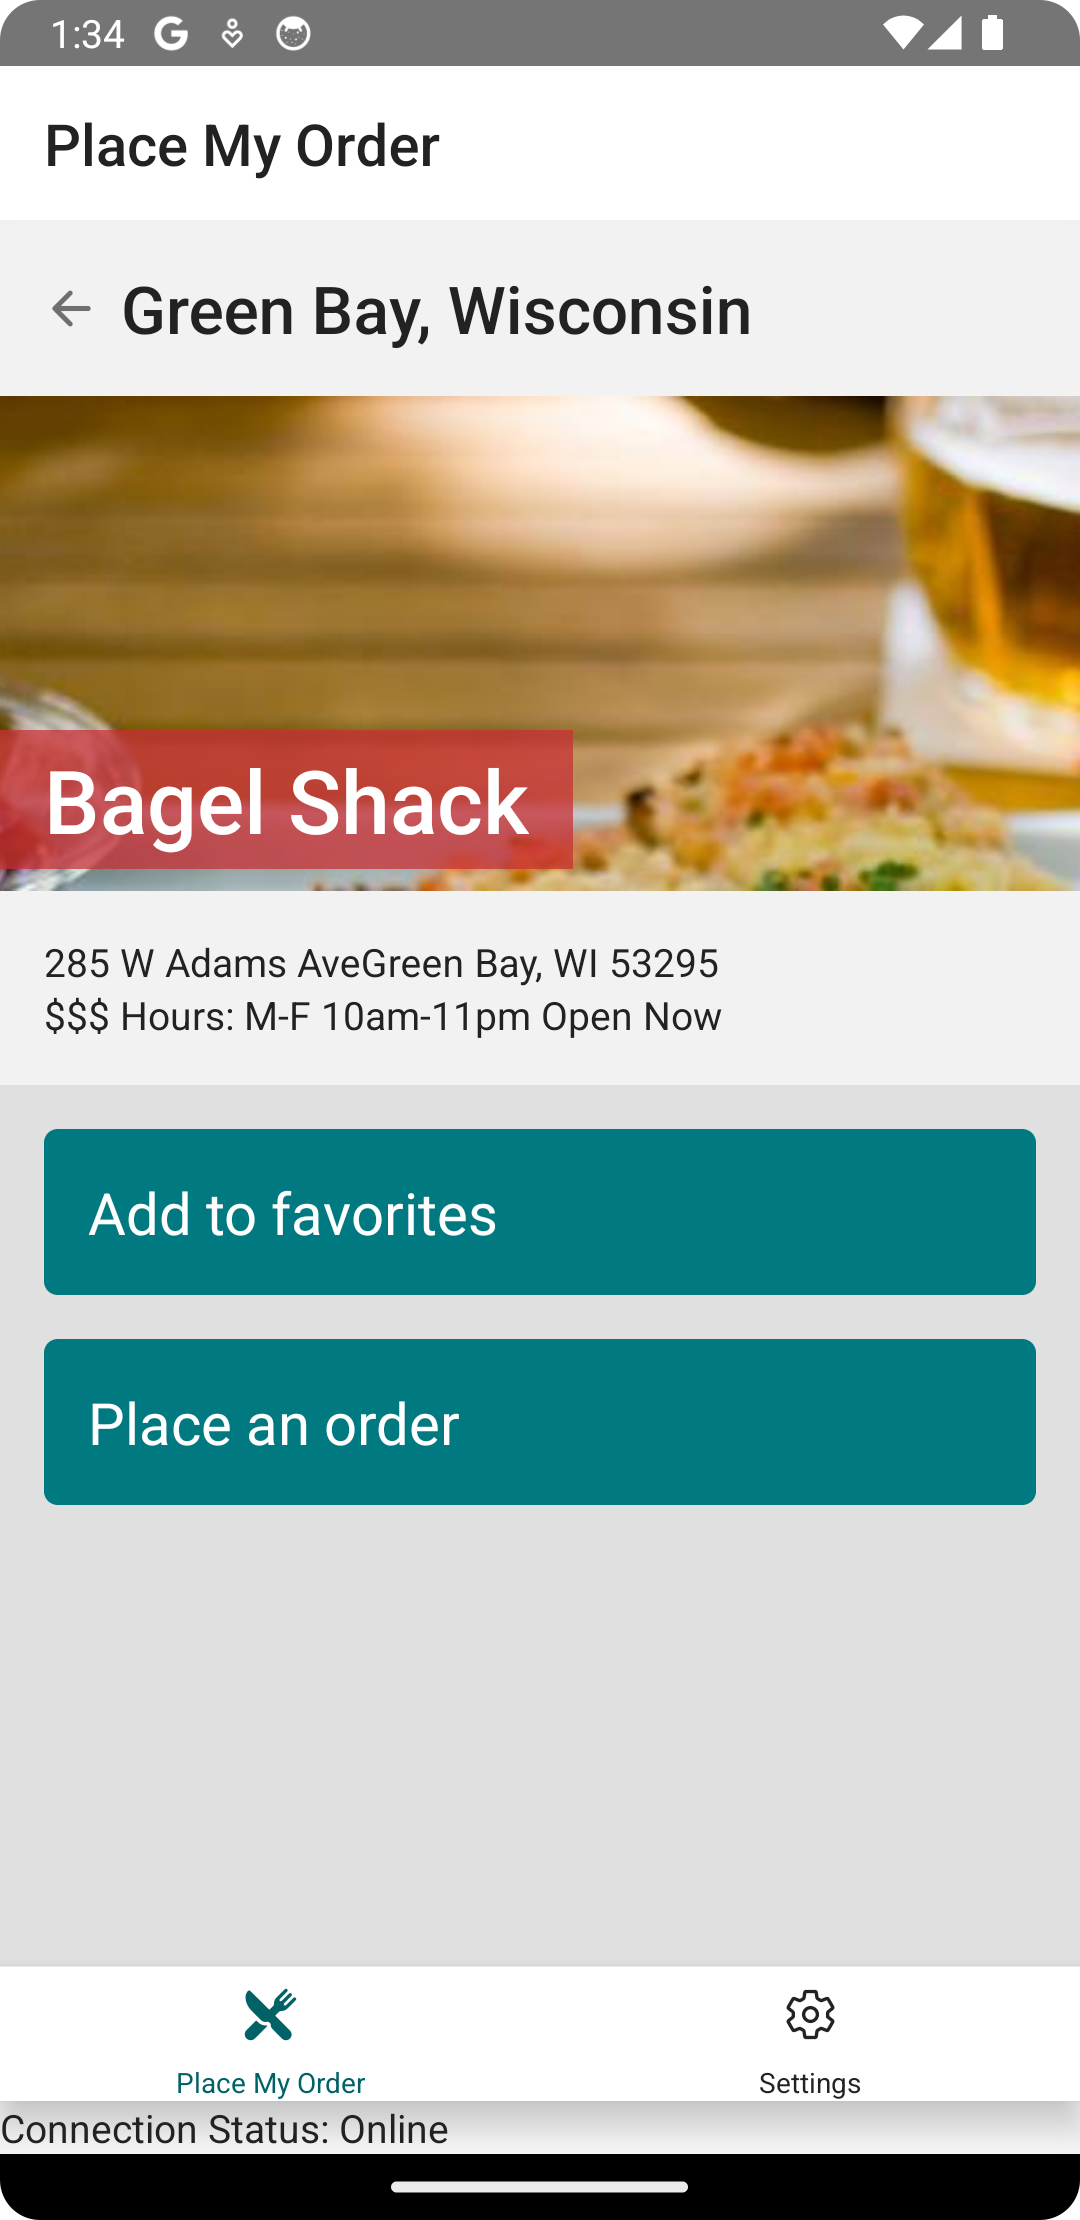
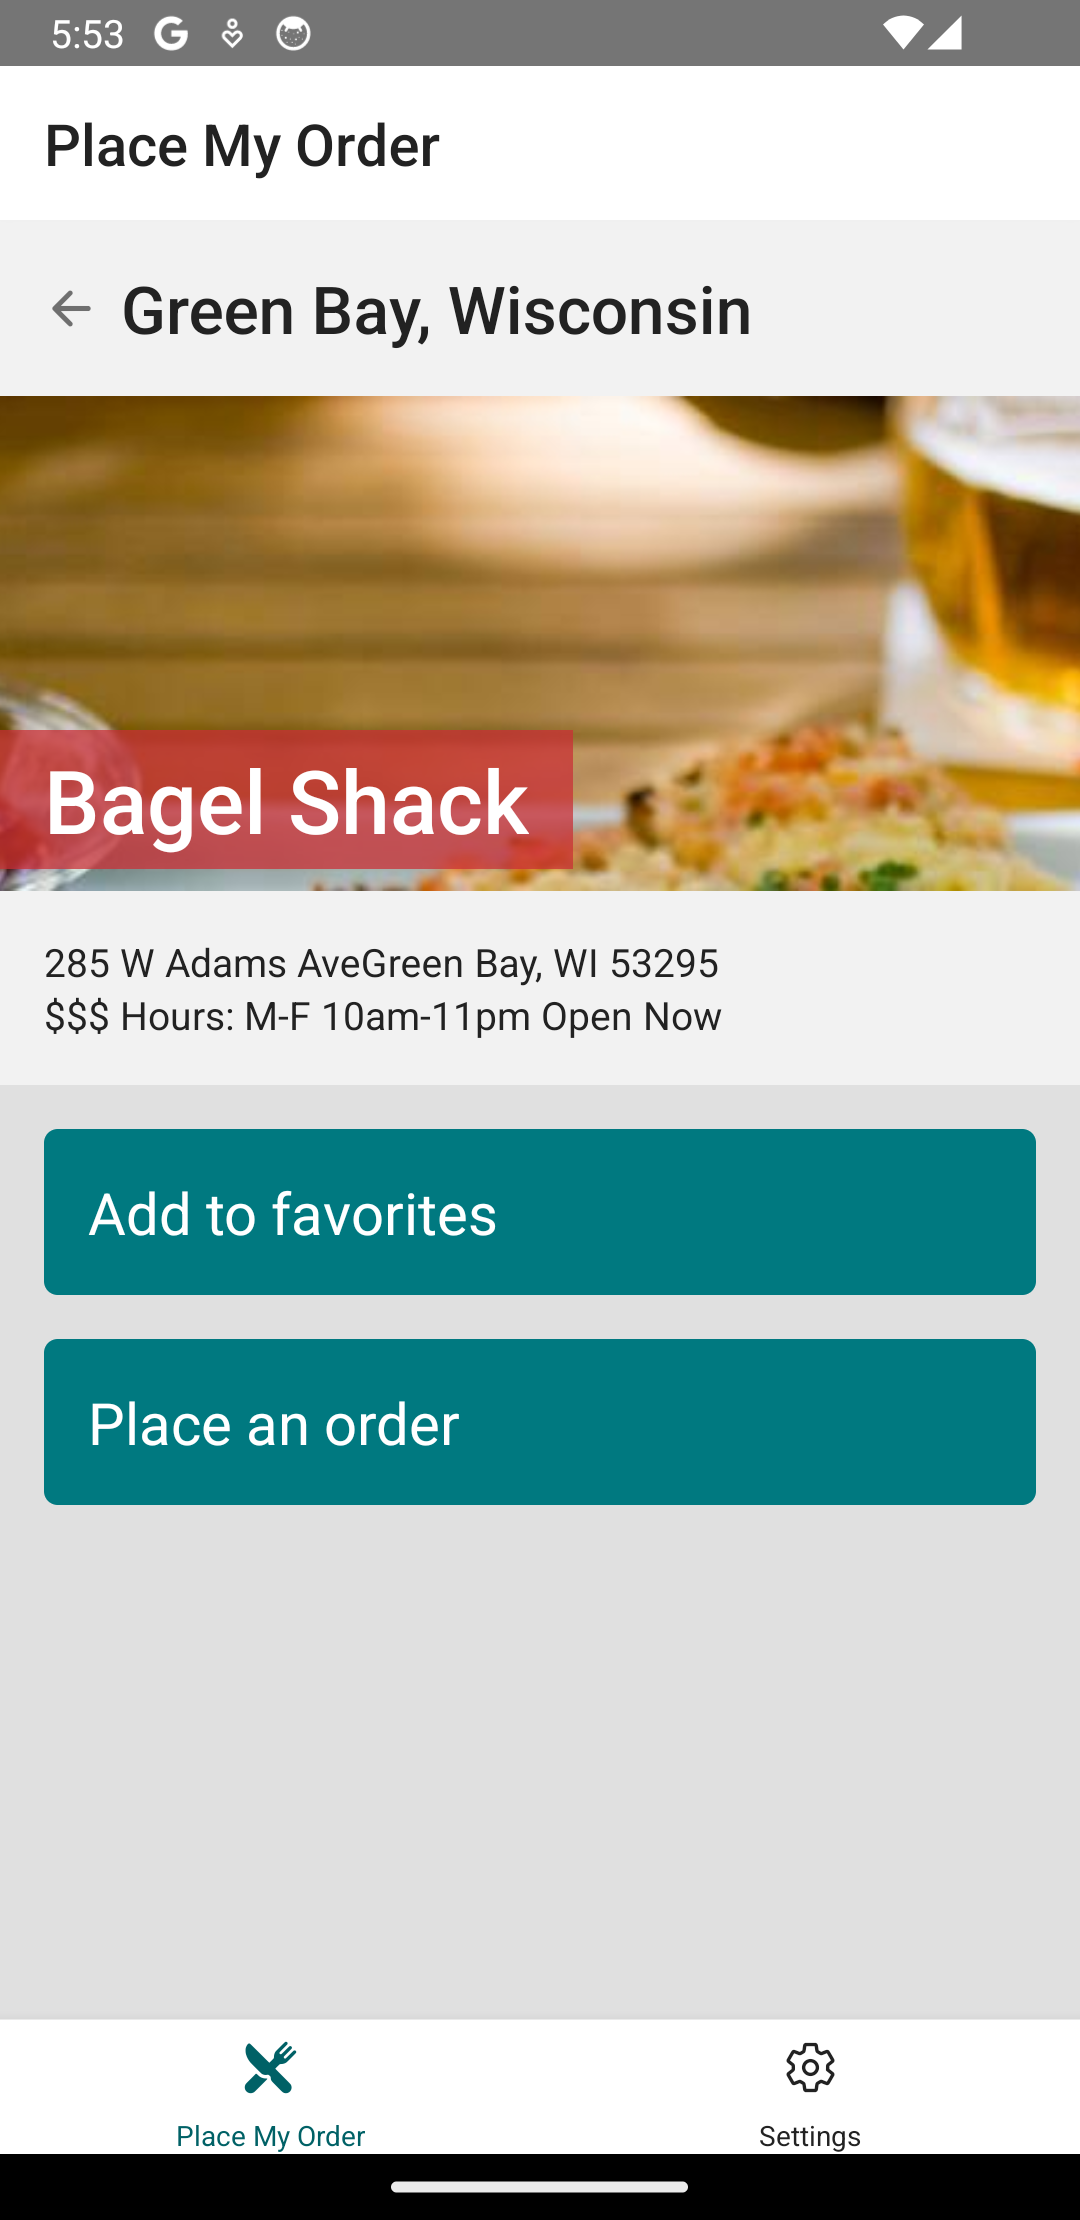
removing connection status at the bottom, sentence case button

diff --git a/exercise-src/react-native/17-offline-support/01-solution/src/screens/Settings/Settings.tsx b/exercise-src/react-native/17-offline-support/01-solution/src/screens/Settings/Settings.tsx
@@ -1,3 +1,4 @@
+import { useNetInfo } from "@react-native-community/netinfo"
 import { GoogleSigninButton } from "@react-native-google-signin/google-signin"
 import { Switch } from "react-native"
 
@@ -7,12 +8,12 @@ import Screen from "../../design/Screen"
 import { useThemeMode } from "../../design/theme"
 import Typography from "../../design/Typography"
 import { useAuthentication, useUser } from "../../services/auth"
-import FavoritesSync from "../../services/pmo/favorite"
 
 const Settings: React.FC = () => {
   const { signIn, signOut } = useAuthentication()
   const user = useUser()
   const { mode, setMode } = useThemeMode()
+  const { isConnected } = useNetInfo()
 
   return (
     <Screen>
@@ -34,7 +35,9 @@ const Settings: React.FC = () => {
         />
       </Card>
       <Card>
-        <FavoritesSync />
+        <Typography>
+          Connection Status: {isConnected ? "Online" : "Offline"}
+        </Typography>
       </Card>
     </Screen>
   )

diff --git a/exercise-src/react-native/17-offline-support/03-solution/src/services/pmo/favorite/favorite.tsx b/exercise-src/react-native/17-offline-support/03-solution/src/services/pmo/favorite/favorite.tsx
@@ -1,12 +1,11 @@
 import { useNetInfo } from "@react-native-community/netinfo"
 import { useEffect } from "react"
 
-import Typography from "../../../design/Typography"
 import { useUser } from "../../auth"
 
 import { useFavorites } from "./hooks"
 
-const useFavoritesSync = (): boolean => {
+const useFavoritesSync = (): void => {
   const user = useUser()
   const { isConnected } = useNetInfo()
   const { syncWithServer, localFavorites } = useFavorites(user?.id)
@@ -17,17 +16,13 @@ const useFavoritesSync = (): boolean => {
     }
   }, [isConnected, localFavorites, syncWithServer, user])
 
-  return isConnected
+  return
 }
 
 const FavoritesSync: React.FC = () => {
-  const isConnected = useFavoritesSync()
+  useFavoritesSync()
 
-  return (
-    <Typography>
-      Connection Status: {isConnected ? "Online" : "Offline"}
-    </Typography>
-  )
+  return null
 }
 
 export default FavoritesSync

diff --git a/exercise-src/react-native/17-offline-support/03-problem/src/services/pmo/favorite/favorite.tsx b/exercise-src/react-native/17-offline-support/03-problem/src/services/pmo/favorite/favorite.tsx
@@ -1,25 +1,18 @@
 import { useNetInfo } from "@react-native-community/netinfo"
 import { useEffect } from "react"
 
-import Typography from "../../../design/Typography"
 import { useUser } from "../../auth"
 
 import { useFavorites } from "./hooks"
 
-const useFavoritesSync = (): boolean => {
-  const { isConnected } = useNetInfo()
-
-  return isConnected
+export const useFavoritesSync = (): void => {
+  return
 }
 
 const FavoritesSync: React.FC = () => {
-  const isConnected = useFavoritesSync()
+  useFavoritesSync()
 
-  return (
-    <Typography>
-      Connection Status: {isConnected ? "Online" : "Offline"}
-    </Typography>
-  )
+  return null
 }
 
 export default FavoritesSync

diff --git a/exercise-src/react-native/17-offline-support/02-solution/src/screens/RestaurantDetails/RestaurantDetails.tsx b/exercise-src/react-native/17-offline-support/02-solution/src/screens/RestaurantDetails/RestaurantDetails.tsx
@@ -61,7 +61,7 @@ const RestaurantDetails: React.FC<RestaurantDetailsProps> = ({ route }) => {
         }}
       >
         {isAuthenticated && favorite?.favorite
-          ? "Remove from Favorites"
+          ? "Remove from favorites"
           : "Add to favorites"}
       </Button>
 

diff --git a/exercise-src/react-native/17-offline-support/03-solution/src/App.tsx b/exercise-src/react-native/17-offline-support/03-solution/src/App.tsx
@@ -160,6 +160,7 @@ const App: React.FC = () => {
             <NavigationContainer>
               <AppNavigator />
             </NavigationContainer>
+            <FavoritesSync />
           </DataMigration>
         </AuthProvider>
       </ThemeProvider>

diff --git a/exercise-src/react-native/17-offline-support/01-problem/src/screens/Settings/Settings.tsx b/exercise-src/react-native/17-offline-support/01-problem/src/screens/Settings/Settings.tsx
@@ -1,3 +1,4 @@
+import { useNetInfo } from "@react-native-community/netinfo"
 import { GoogleSigninButton } from "@react-native-google-signin/google-signin"
 import { Switch } from "react-native"
 

diff --git a/exercise-src/react-native/17-offline-support/02-problem/src/services/pmo/favorite/index.ts b/exercise-src/react-native/17-offline-support/02-problem/src/services/pmo/favorite/index.ts
@@ -1,2 +1,1 @@
-export { default } from "./favorite"
 export * from "./hooks"

diff --git a/exercise-src/react-native/17-offline-support/03-problem/src/services/pmo/favorite/index.ts b/exercise-src/react-native/17-offline-support/03-problem/src/services/pmo/favorite/index.ts
@@ -1,1 +1,2 @@
 export { default } from "./favorite"
+export * from "./hooks"

diff --git a/src/react-native/17-offline-support/offline-support.md b/src/react-native/17-offline-support/offline-support.md
@@ -36,21 +36,13 @@ npm install @react-native-community/netinfo@11
 
 @diff ../../../exercises/react-native/16-security/01-solution/src/screens/Settings/Settings.tsx ../../../exercises/react-native/17-offline-support/01-problem/src/screens/Settings/Settings.tsx only
 
-✏ Create **src/services/pmo/favorite/favorite.tsx** and update it to be:
-
-@sourceref ../../../exercises/react-native/17-offline-support/01-solution/src/services/pmo/favorite/favorite.tsx
-
-✏ Create **src/services/pmo/favorite/index.ts** and update it to be:
-
-@sourceref ../../../exercises/react-native/17-offline-support/01-solution/src/services/pmo/favorite/index.ts
-
 ### Verify 1
 
 TODO
 
 ### Exercise 1
 
-- Use NetInfo to determine connection state
+- Use NetInfo to determine the connection state
 
 - Display message on Settings when offline
 
@@ -64,10 +56,6 @@ If you’ve implemented the solution correctly, the tests will pass when you run
 ✏ Update **src/screens/Settings/Settings.tsx** to be:
 
 @diff ../../../exercises/react-native/17-offline-support/01-problem/src/screens/Settings/Settings.tsx ../../../exercises/react-native/17-offline-support/01-solution/src/screens/Settings/Settings.tsx only
-
-✏ Update **src/services/pmo/favorite/favorite.tsx** to be:
-
-@diff ../../../exercises/react-native/17-offline-support/01-problem/src/services/pmo/favorite/favorite.tsx ../../../exercises/react-native/17-offline-support/01-solution/src/services/pmo/favorite/favorite.tsx only
 
 </details>
 
@@ -84,10 +72,6 @@ TODO
 
 ### Setup 2
 
-✏ Update **src/screens/RestaurantDetails/RestaurantDetails.tsx** to be:
-
-@diff ../../../exercises/react-native/17-offline-support/01-solution/src/screens/RestaurantDetails/RestaurantDetails.tsx ../../../exercises/react-native/17-offline-support/02-problem/src/screens/RestaurantDetails/RestaurantDetails.tsx only
-
 ✏ Create **src/services/pmo/favorite/hooks.ts** and update it to be:
 
 @sourceref ../../../exercises/react-native/17-offline-support/02-problem/src/services/pmo/favorite/hooks.ts
@@ -95,6 +79,10 @@ TODO
 ✏ Create **src/services/pmo/favorite/index.ts** and update it to be:
 
 @sourceref ../../../exercises/react-native/17-offline-support/02-problem/src/services/pmo/favorite/index.ts
+
+✏ Update **src/screens/RestaurantDetails/RestaurantDetails.tsx** to be:
+
+@diff ../../../exercises/react-native/17-offline-support/01-solution/src/screens/RestaurantDetails/RestaurantDetails.tsx ../../../exercises/react-native/17-offline-support/02-problem/src/screens/RestaurantDetails/RestaurantDetails.tsx only
 
 ### Verify 2
 
@@ -121,13 +109,13 @@ If you’ve implemented the solution correctly, the tests will pass when you run
 <details>
 <summary>Click to see the solution</summary>
 
-✏ Update **src/screens/RestaurantDetails/RestaurantDetails.tsx** to be:
-
-@diff ../../../exercises/react-native/17-offline-support/02-problem/src/screens/RestaurantDetails/RestaurantDetails.tsx ../../../exercises/react-native/17-offline-support/02-solution/src/screens/RestaurantDetails/RestaurantDetails.tsx only
-
 ✏ Update **src/services/pmo/favorite/hooks.ts** to be:
 
 @diff ../../../exercises/react-native/17-offline-support/02-problem/src/services/pmo/favorite/hooks.ts ../../../exercises/react-native/17-offline-support/02-solution/src/services/pmo/favorite/hooks.ts only
+
+✏ Update **src/screens/RestaurantDetails/RestaurantDetails.tsx** to be:
+
+@diff ../../../exercises/react-native/17-offline-support/02-problem/src/screens/RestaurantDetails/RestaurantDetails.tsx ../../../exercises/react-native/17-offline-support/02-solution/src/screens/RestaurantDetails/RestaurantDetails.tsx only
 
 </details>
 
@@ -147,9 +135,13 @@ TODO
 
 @diff ../../../exercises/react-native/17-offline-support/02-solution/src/services/pmo/favorite/hooks.ts ../../../exercises/react-native/17-offline-support/03-problem/src/services/pmo/favorite/hooks.ts only
 
-✏ Update **src/services/pmo/favorite/favorite.tsx** to be:
+✏ Create **src/services/pmo/favorite/favorite.tsx** and update it to be:
 
-@diff ../../../exercises/react-native/17-offline-support/02-solution/src/services/pmo/favorite/favorite.tsx ../../../exercises/react-native/17-offline-support/03-problem/src/services/pmo/favorite/favorite.tsx only
+@sourceref ../../../exercises/react-native/17-offline-support/03-problem/src/services/pmo/favorite/favorite.tsx
+
+✏ Update **src/services/pmo/favorite/index.ts** to be:
+
+@diff ../../../exercises/react-native/17-offline-support/02-solution/src/services/pmo/favorite/index.ts ../../../exercises/react-native/17-offline-support/03-solution/src/services/pmo/favorite/index.ts only
 
 ### Verify 3
 
@@ -171,6 +163,10 @@ If you’ve implemented the solution correctly, the tests will pass when you run
 ✏ Update **src/services/pmo/favorite/favorite.tsx** to be:
 
 @diff ../../../exercises/react-native/17-offline-support/03-problem/src/services/pmo/favorite/favorite.tsx ../../../exercises/react-native/17-offline-support/03-solution/src/services/pmo/favorite/favorite.tsx only
+
+✏ Update **src/App.tsx** to be:
+
+@diff ../../../exercises/react-native/17-offline-support/03-problem/src/App.tsx ../../../exercises/react-native/17-offline-support/03-solution/src/App.tsx only
 
 </details>
 
